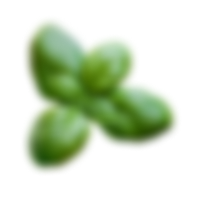
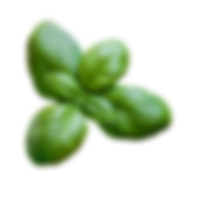
anim_1_page

diff --git a/style/main.css b/style/main.css
@@ -101,7 +101,7 @@ header{
     margin-right: 0px;
 }
 .nav-menu a:hover{
-    color: var(--color-main);
+    color: #9d55d4;
     text-shadow: 0px 0px 25px #7C00DD;
 }
 .back{
@@ -117,12 +117,154 @@ header{
     position: absolute;
     z-index: -3;
 }
+.dop-elements{
+    position: relative;
+    top: 0;
+    right: 0;
+}
+.basilik{
+    position: absolute;
+    right: 10px;
+    top: 10px;
+    animation-name: basilik;
+    animation-duration: 3s;
+    animation-timing-function: linear;
+    animation-iteration-count: infinite;
+}
+.pap1{
+    position: absolute;
+    top: 600px;
+    left: 530px;
+    animation-name: pap1;
+    animation-duration: 5s;
+    animation-timing-function: linear;
+    animation-iteration-count: infinite;
+    
+}
+.pap2{
+    position: absolute;
+    top: 100px;
+    left: 750px;
+    animation-name: pap1;
+    animation-duration: 3s;
+    animation-direction: reverse;
+    animation-delay: 1s;
+    animation-iteration-count: infinite;
+}
 .back_steam{
     position: absolute;
     z-index: -2;
     top: 75px;
     right: 0px;
 }
+.steam1{
+    animation-name: steam1;
+    animation-duration: 3s;
+    animation-timing-function: linear;
+    animation-iteration-count: infinite;
+}
+.steam2{
+    animation-name: steam2;
+    animation-duration: 3s;
+    animation-timing-function: linear;
+    animation-iteration-count: infinite;
+    animation-delay: 1s;
+    opacity: 0;
+}
+@keyframes steam2{
+    0%{
+        opacity: 0;
+    }
+    25%{
+        opacity: 0.5;
+        transform: rotate(-5deg);
+        top: 80;
+    }
+    50%{
+        opacity: 1;
+        transform: rotate(-10deg);
+        top: 90;
+    }
+    75%{
+        opacity: 0.2;
+        transform: rotate(-15deg);
+
+        top: 100;
+
+    }
+    100%{
+        opacity: 0;
+
+        top: 110;
+        transform: rotate(-20deg);
+    }
+}
+@keyframes steam1 {
+    0%{
+        opacity: 0;
+    }
+    25%{
+        opacity: 0.2;
+        transform: rotate(5deg);
+        right: 50px;
+    }
+    50%{
+        opacity: 1;
+        transform: rotate(10deg);
+        right: 100px;
+    }
+    75%{
+        opacity: 0.5;
+        transform: rotate(15deg);
+        right: 150px;
+
+    }
+    100%{
+        opacity: 0;
+        right: 180px;
+        transform: rotate(20deg);
+    }
+}
+@keyframes basilik{
+    0%{
+        transform: rotate(-5deg);
+    }
+    25%{
+        transform: rotate(-10deg);
+        top: 15px;
+    }
+    50%{
+        transform: rotate(-15deg);
+        top: 20px;
+    }
+    75%{
+        transform: rotate(-10deg);
+        top: 15px;
+
+    }
+    100%{
+        transform: rotate(-5deg);
+    }
+}
+@keyframes pap1{
+    0%{
+        transform: rotate(5deg);
+    }
+    25%{
+        transform: rotate(15deg);
+    }
+    50%{
+        transform: rotate(20deg);
+    }
+    75%{
+        transform: rotate(15deg);
+
+    }
+    100%{
+        transform: rotate(5deg);
+    }
+}
+
 .back_neon{
     width: 518px;
     height: 268px;
@@ -757,7 +899,7 @@ header{
     font-size: 36px;
     line-height: 100%;
     color: #FFFFFF;
-    margin-left: 18px;
+    margin-left: 8px;
 }
 .sub-btn{
     width: 156px;
@@ -783,7 +925,4 @@ footer{
 .footer{
     display: flex;
     align-items: flex-start;
-}
-.header_nav-menu a:hover{
-    color: var(--color-dark);
 }

diff --git a/index.html b/index.html
@@ -14,7 +14,13 @@
 <body>
     <main>
         <div class="back">
-            <img class="back_steam" src="img/back/steam.png" alt="">
+            <img class="back_steam steam1" src="img/back/steam.png" alt="">
+            <img class="back_steam steam2" src="img/back/steam.png" alt="">
+            <div class="dop-elements">
+                <img class="basilik" src="img/back/193-1930633_basil-hd-hd-png-download-removebg-preview 1.png" alt="">
+                <img class="pap1" src="img/back/86-861845_pepperoni-pictures-removebg-preview 1.png" alt="">
+                <img class="pap2" src="img/back/86-861845_pepperoni-pictures-removebg-preview 2.png" alt="">
+            </div>
             <img class="back_pizza" src="img/back/back_pizza.png" alt="">
             <div class="back_neon"></div>
         </div>
